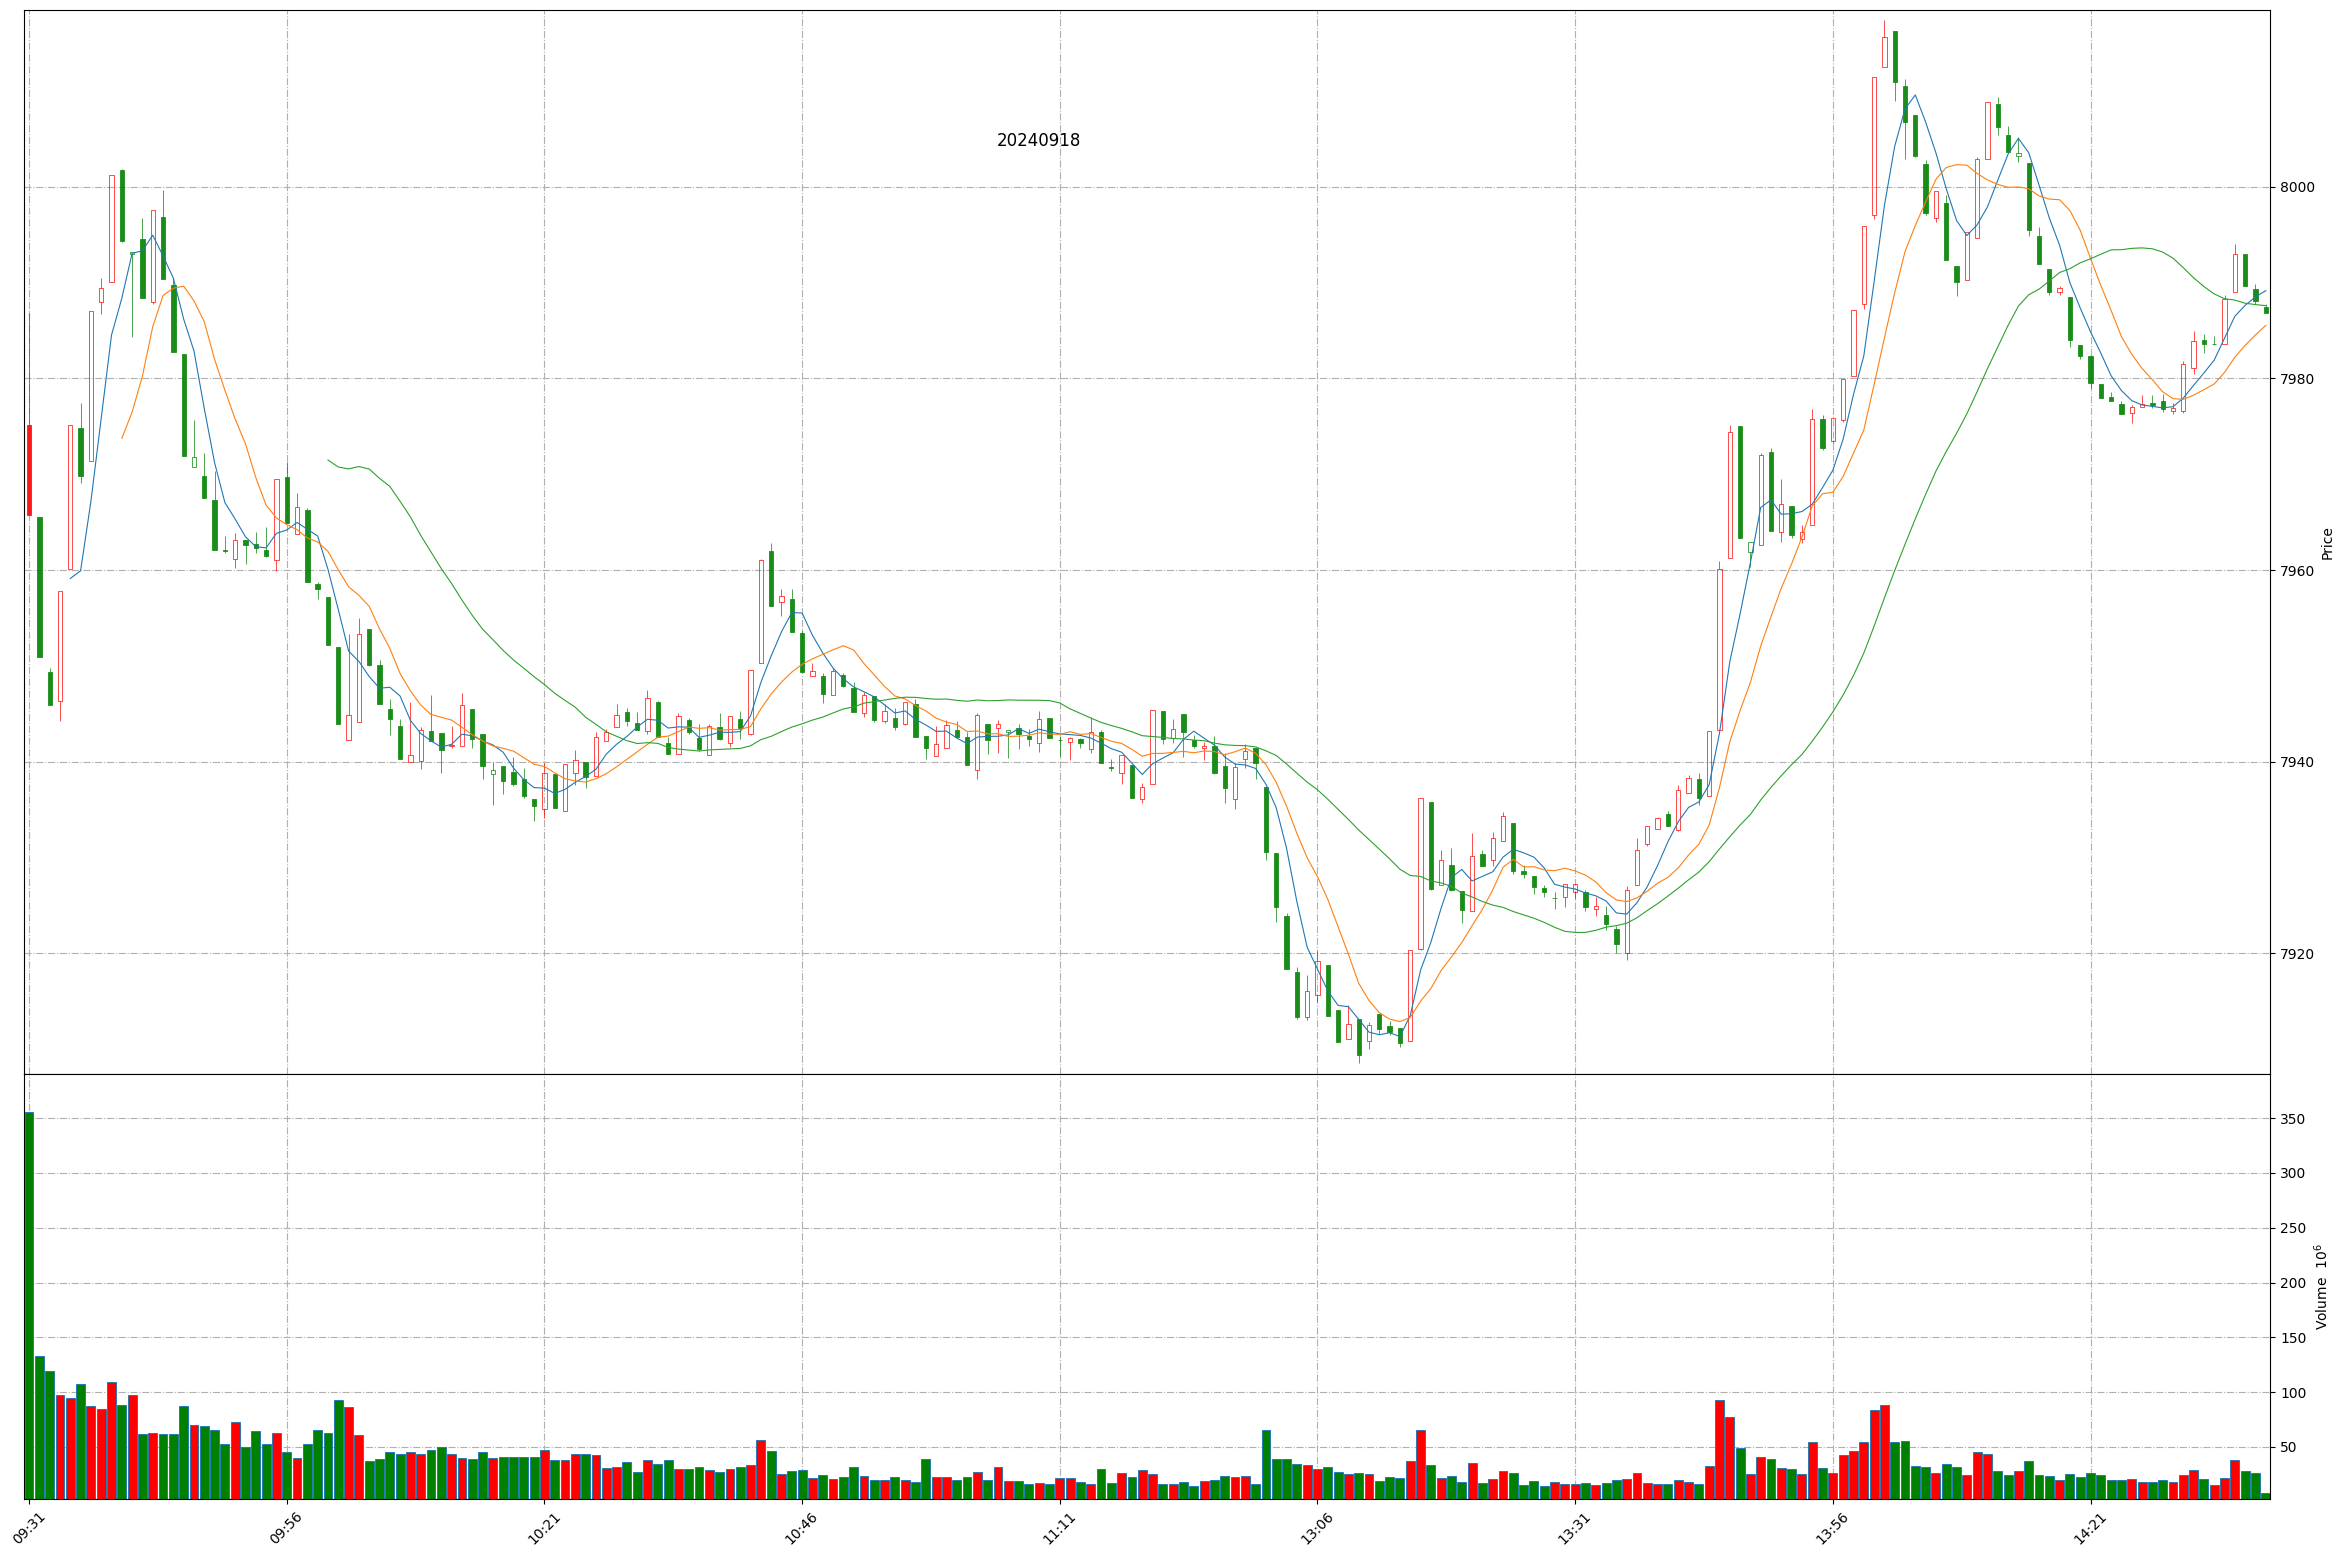
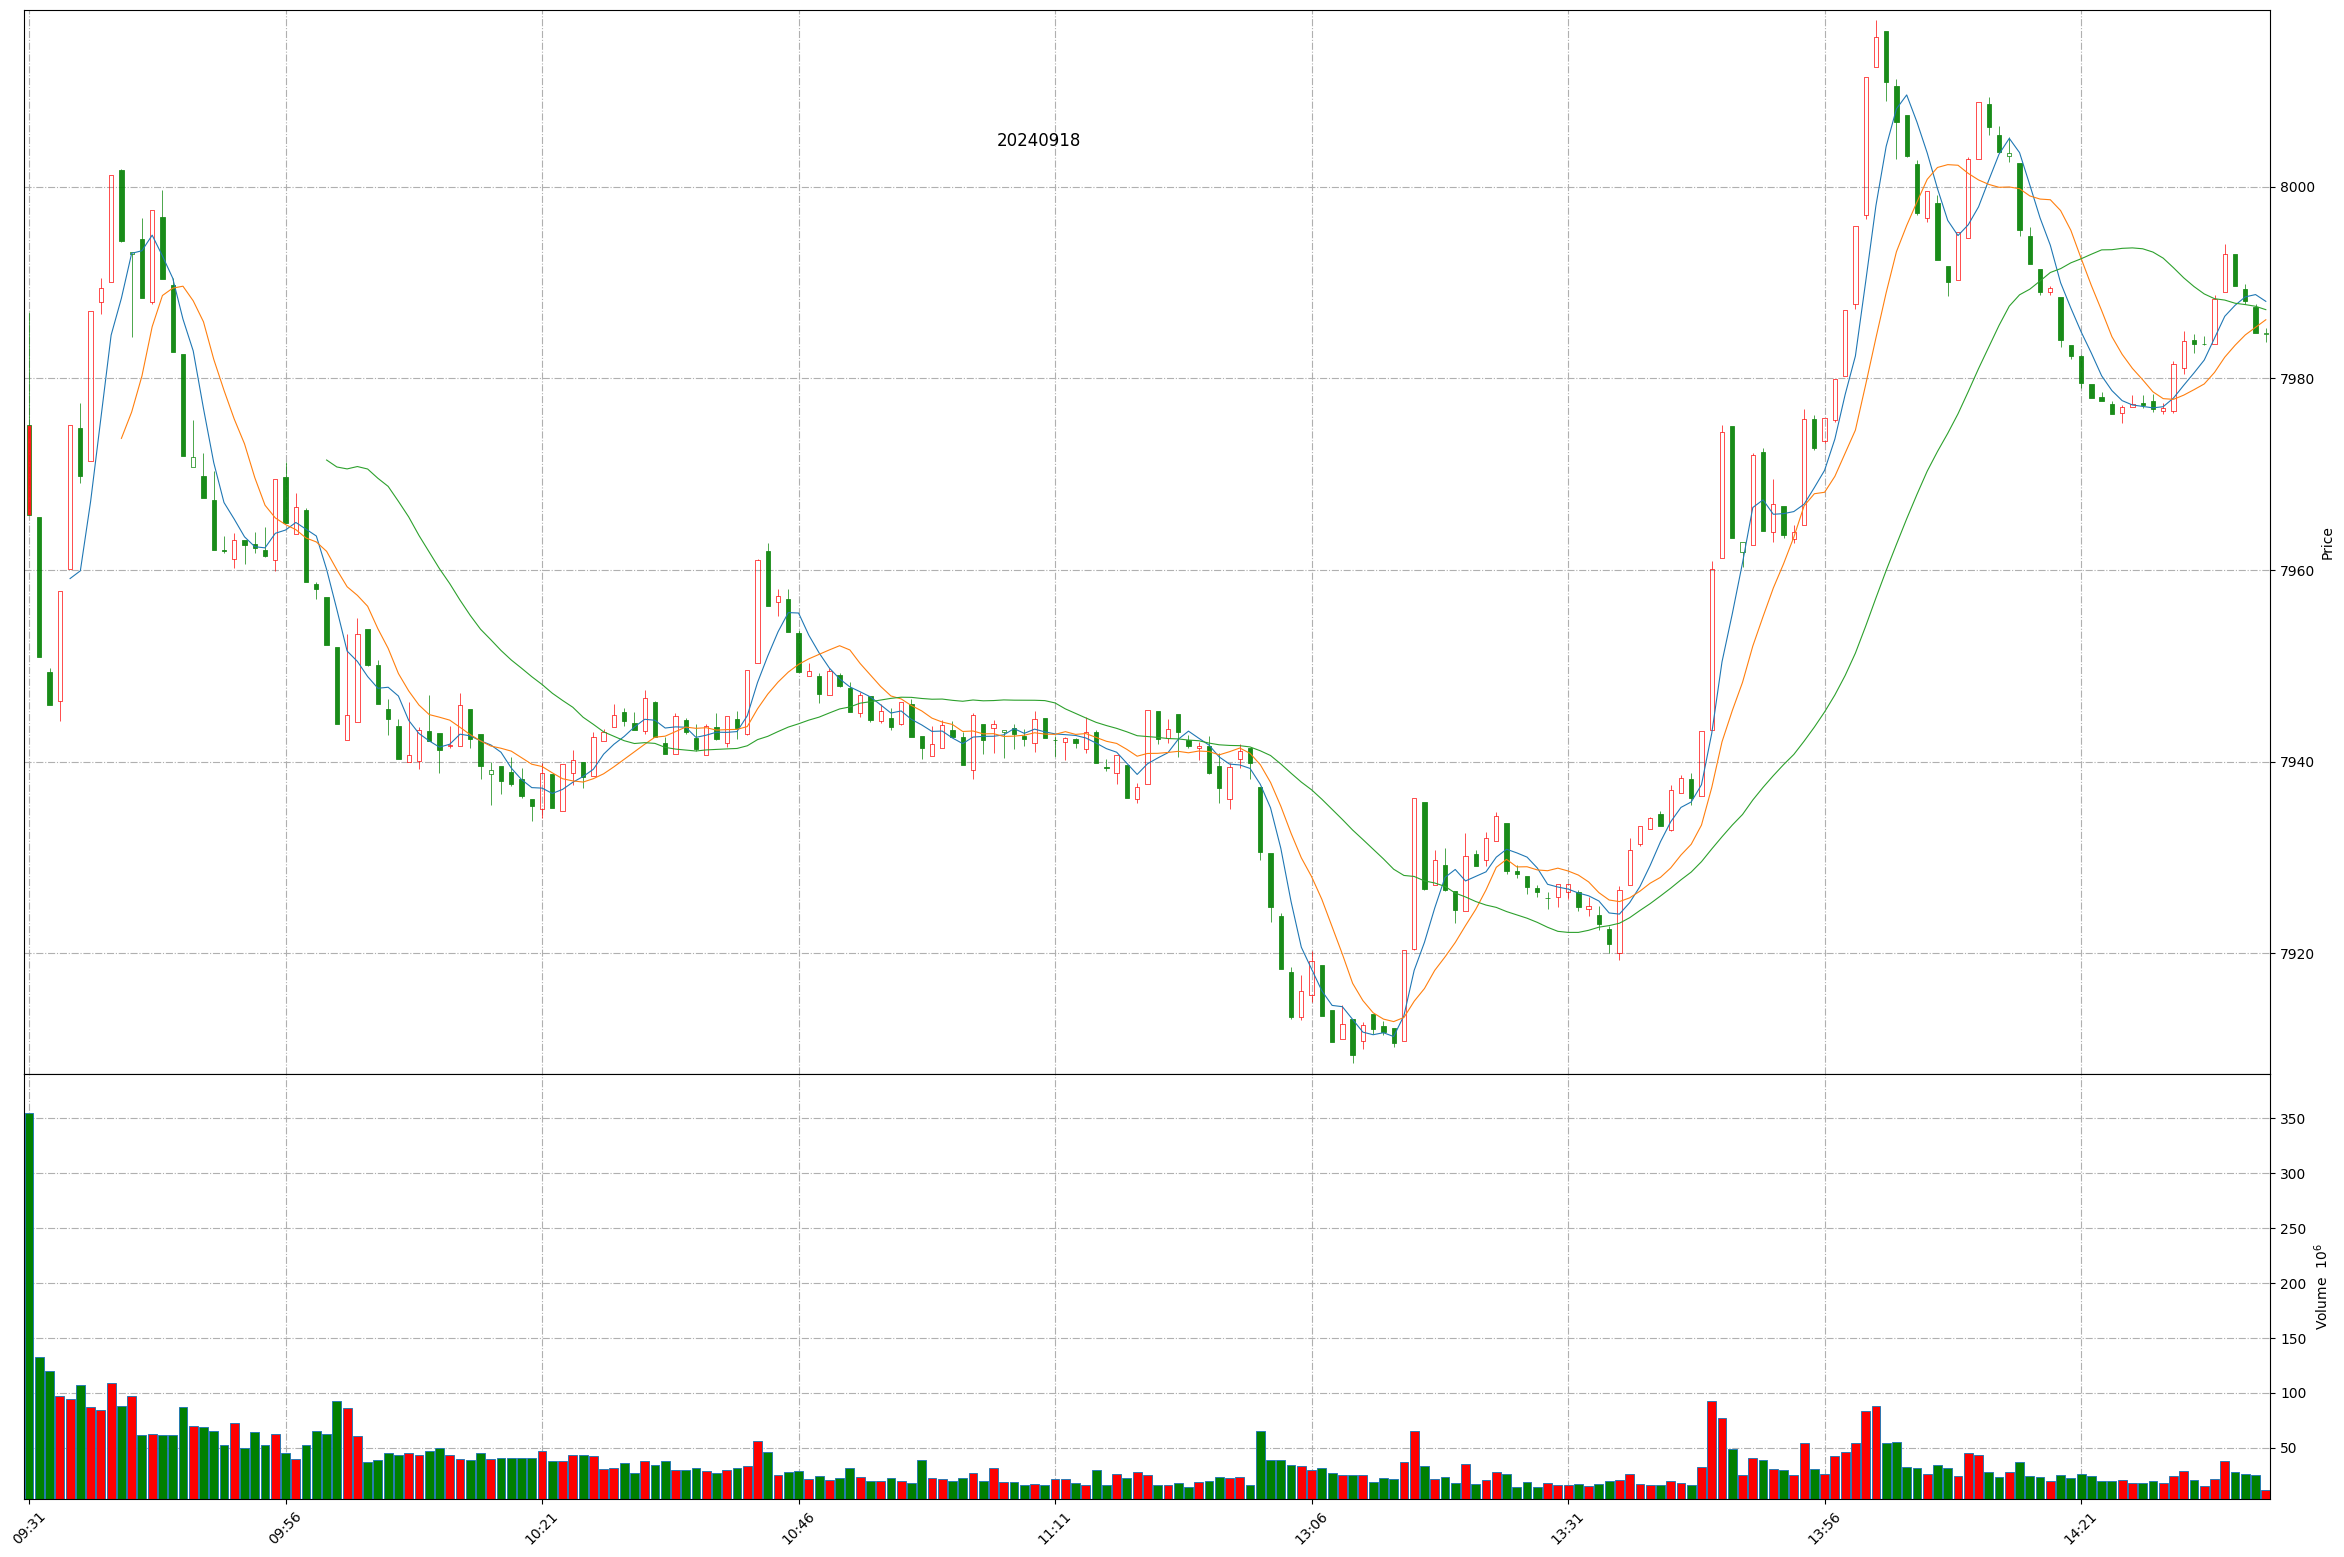
Github action update at 2024-09-18 14:38:36.

diff --git a/README.md b/README.md
@@ -1,11 +1,11 @@
 
 # Daily-A-share-market-quotes 每日 A 股指数（5min 更新）- 20240918
 
-### 上证指数 20240918 14:37
+### 上证指数 20240918 14:38
 ![](./fig/2024/9/20240918-sh000001.png)
 
-### 深证成指 20240918 14:37
+### 深证成指 20240918 14:38
 ![](./fig/2024/9/20240918-sz399001.png)
 
-### 北证50 20240918 14:37
+### 北证50 20240918 14:38
 ![](./fig/2024/9/20240918-bj899050.png)
